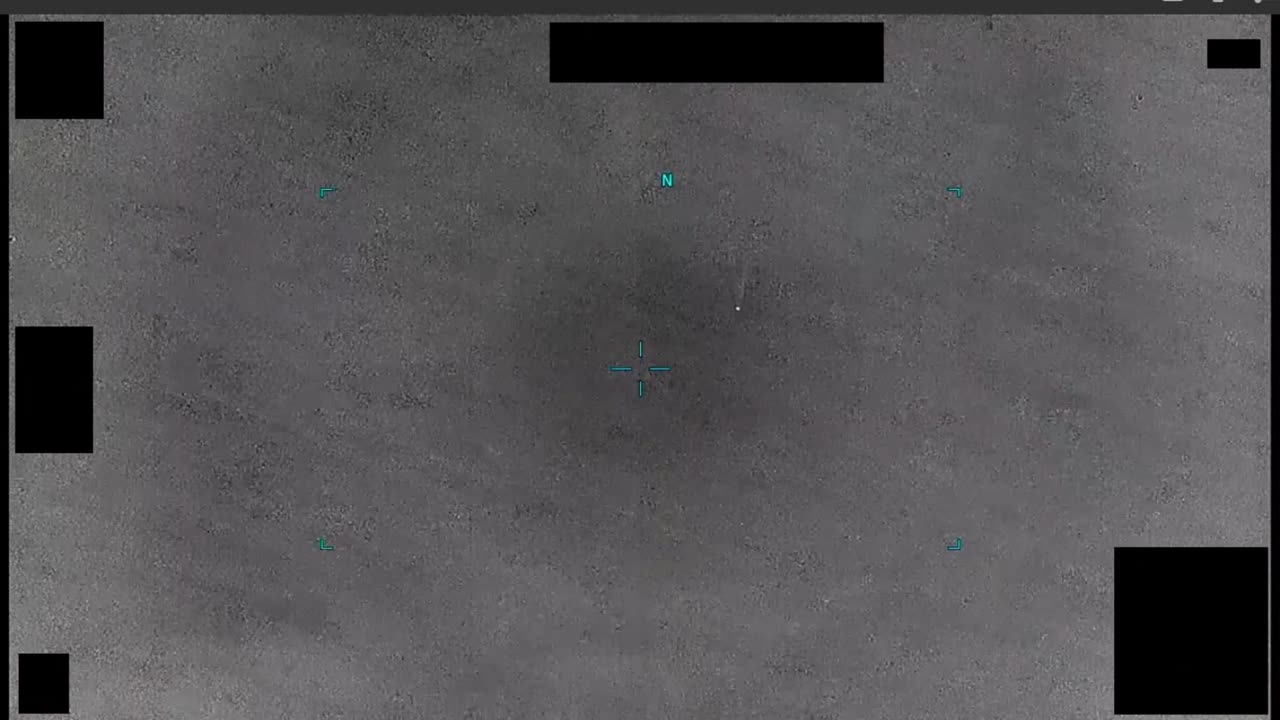
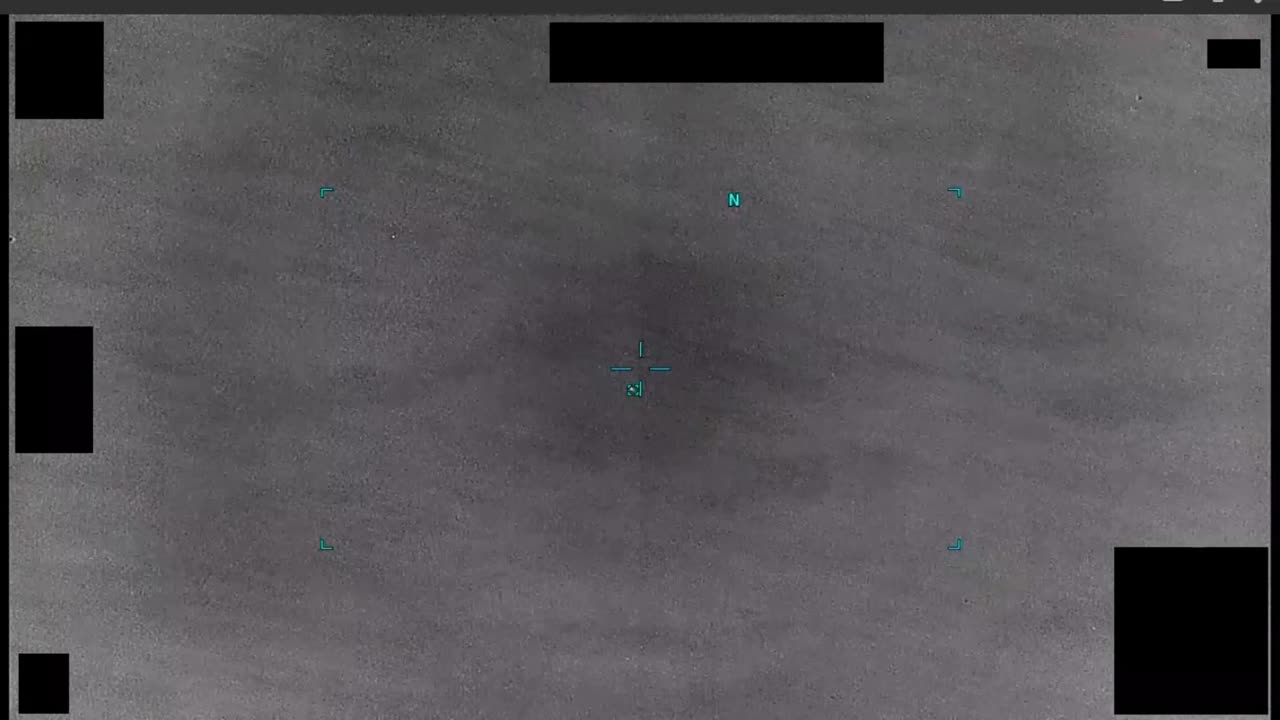
Replace the stills of PR34, PR35 and FBI-UAP-PR005 with frames that show the object, and date the FBI stills

Changed region(s): [[0.5625, 0.275, 0.5938, 0.3056], [0.5, 0.2444, 0.5312, 0.275], [0.4688, 0.5194, 0.5, 0.55]]

diff --git a/src/data/stills.ts b/src/data/stills.ts
@@ -26,8 +26,12 @@ export const STILLS: Record<string, StillInfo> = {
   // opisanego biało-czerwonego półowalu nie ma w żadnej z 198 klatek pliku z paczki
   'DOW-UAP-PR32': { at: 3, object: 'absent' },
   'DOW-UAP-PR33': shown(1.5),
-  'DOW-UAP-PR34': shown(30),
-  'DOW-UAP-PR35': shown(3),
+  // 1:04,5: biały punkt w małym celowniku tuż pod krzyżem; znak N u góry to nakładka, nie obiekt
+  'DOW-UAP-PR34': shown(64.5),
+  // 0:12,5: mały punkt tuż przy krzyżu, po prawej u dołu. Biały kłębiasty kształt, który płynie
+  // z chmurami, nie jest obiektem i siedzi teraz pod górnym zaczernieniem (widać jego odłamki);
+  // punkt dalej w prawo to drugi punkt, którego wydawca nie wymienia
+  'DOW-UAP-PR35': shown(12.5),
   'DOW-UAP-PR36': shown(50),
   // w każdym kadrze jednostka pływająca, której opis wydawcy nie wymienia
   'DOW-UAP-PR37': { at: 3, object: 'not-found' },
@@ -58,6 +62,12 @@ export const STILLS: Record<string, StillInfo> = {
   'DOW-UAP-PR089': shown(15),
   // punkt widać dopiero po powiększeniu; szary znak N krążący wokół krzyża to nakładka, nie obiekt
   'DOW-UAP-PR092': shown(94),
+  // Rekonstrukcje, które FBI przygotowało dla wydawcy z relacji świadka 3 (western-us-2023):
+  // ilustracja relacji, nie zapis zjawiska. „Shown” znaczy tu, że widać to, co opisuje relacja.
+  // 0:35: pomarańczowa kula i trzy czerwone kule w linii tuż po wyrzuceniu
+  'FBI-UAP-PR005': shown(35),
+  // plakat wydawcy, około 0:03: trzy z czterech czerwonych świateł, czwarte wchodzi chwilę później
+  'FBI-UAP-PR006': shown(3),
 };
 
 /** 135 -> "2:15", 2.6 -> "0:02.6" */
